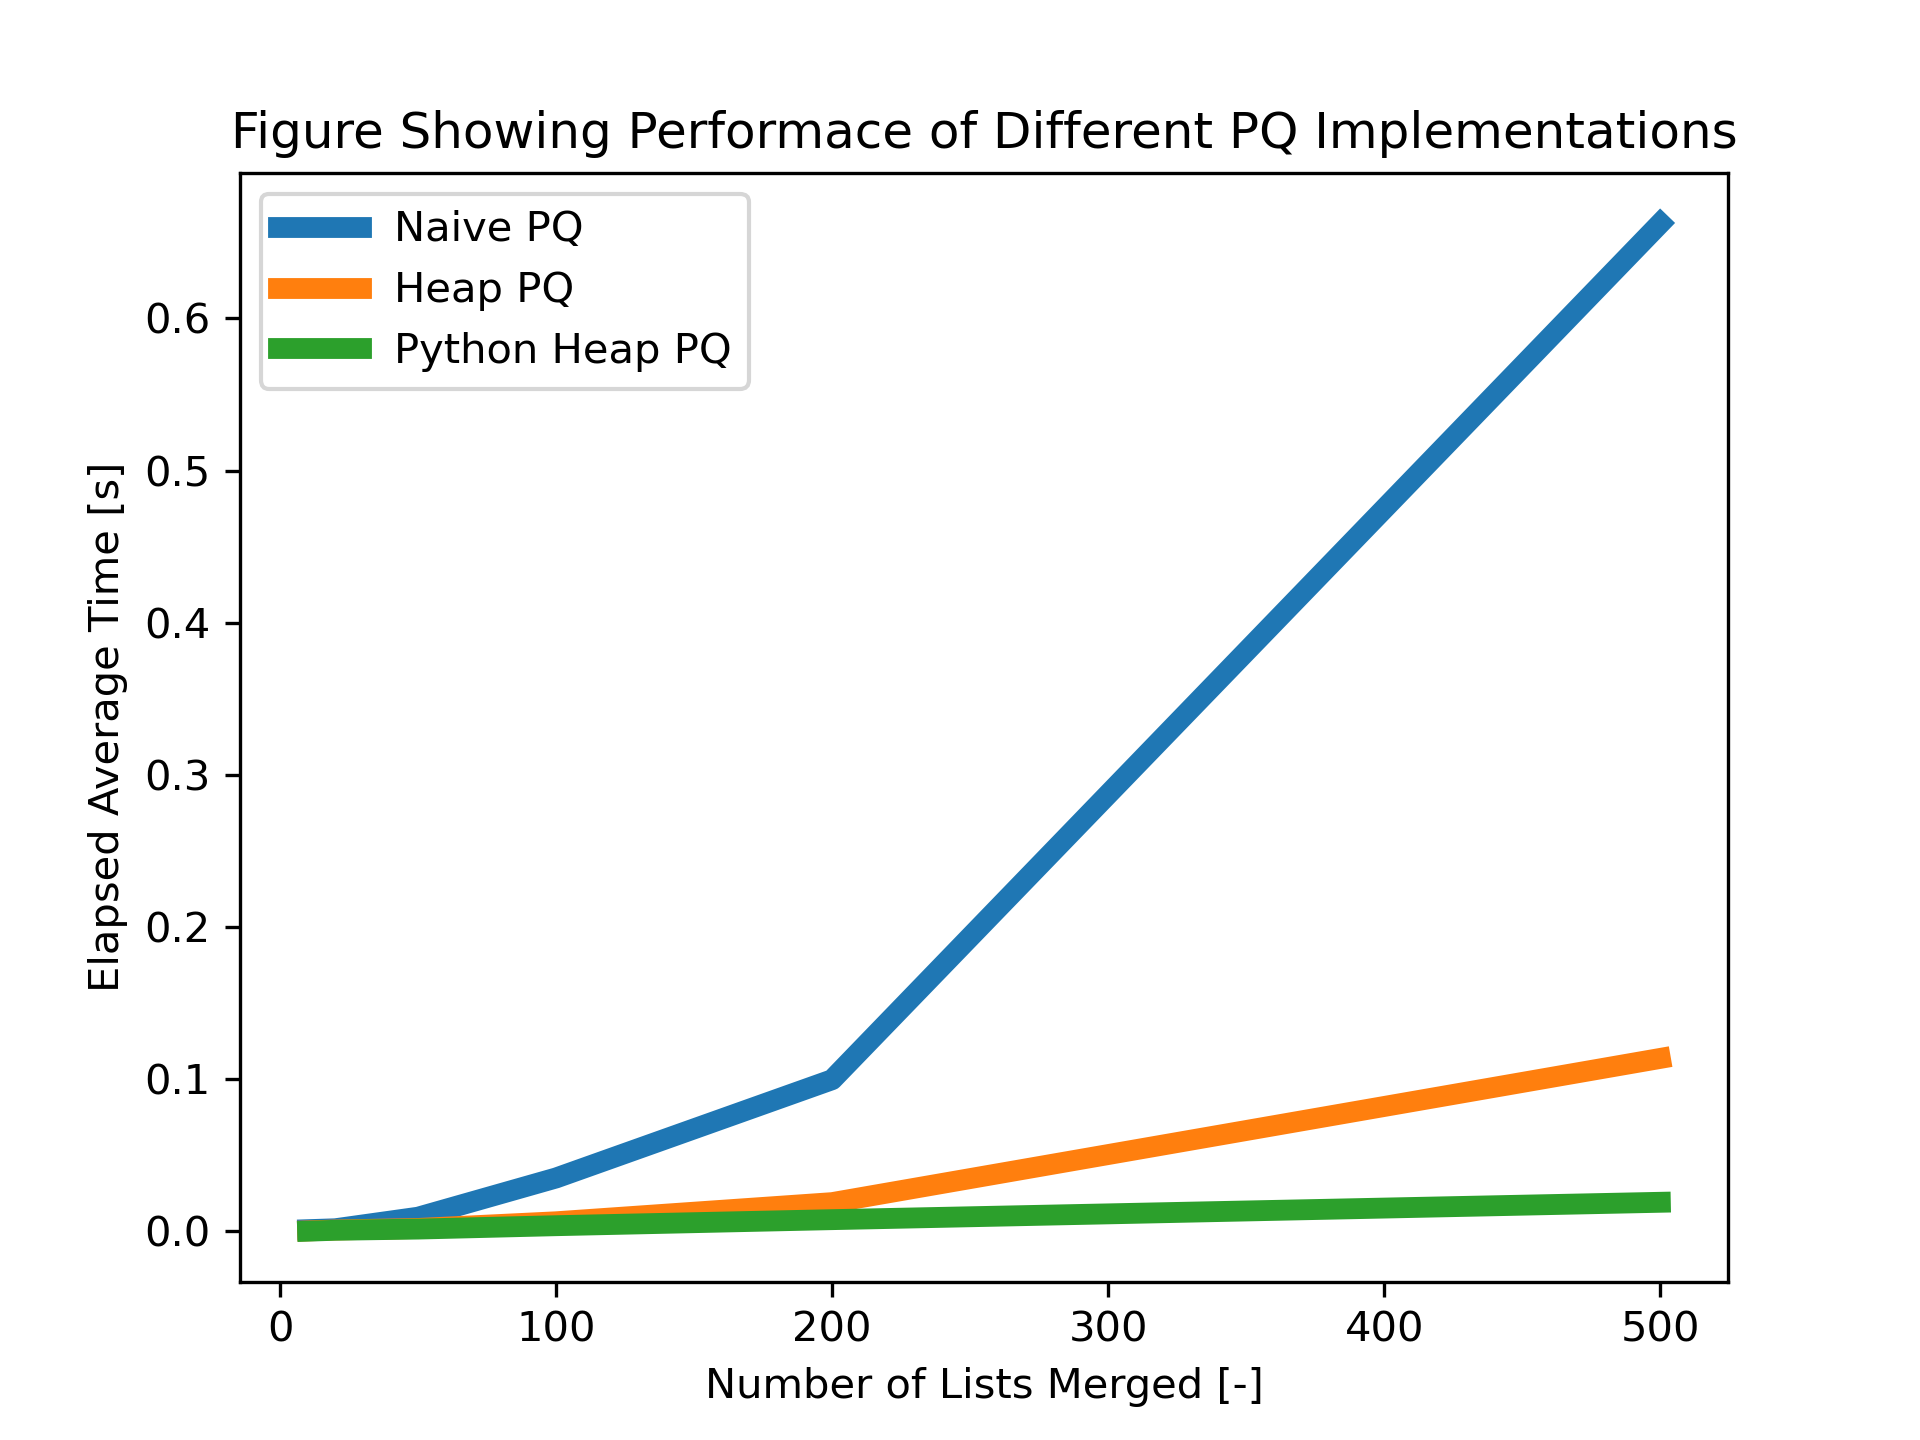
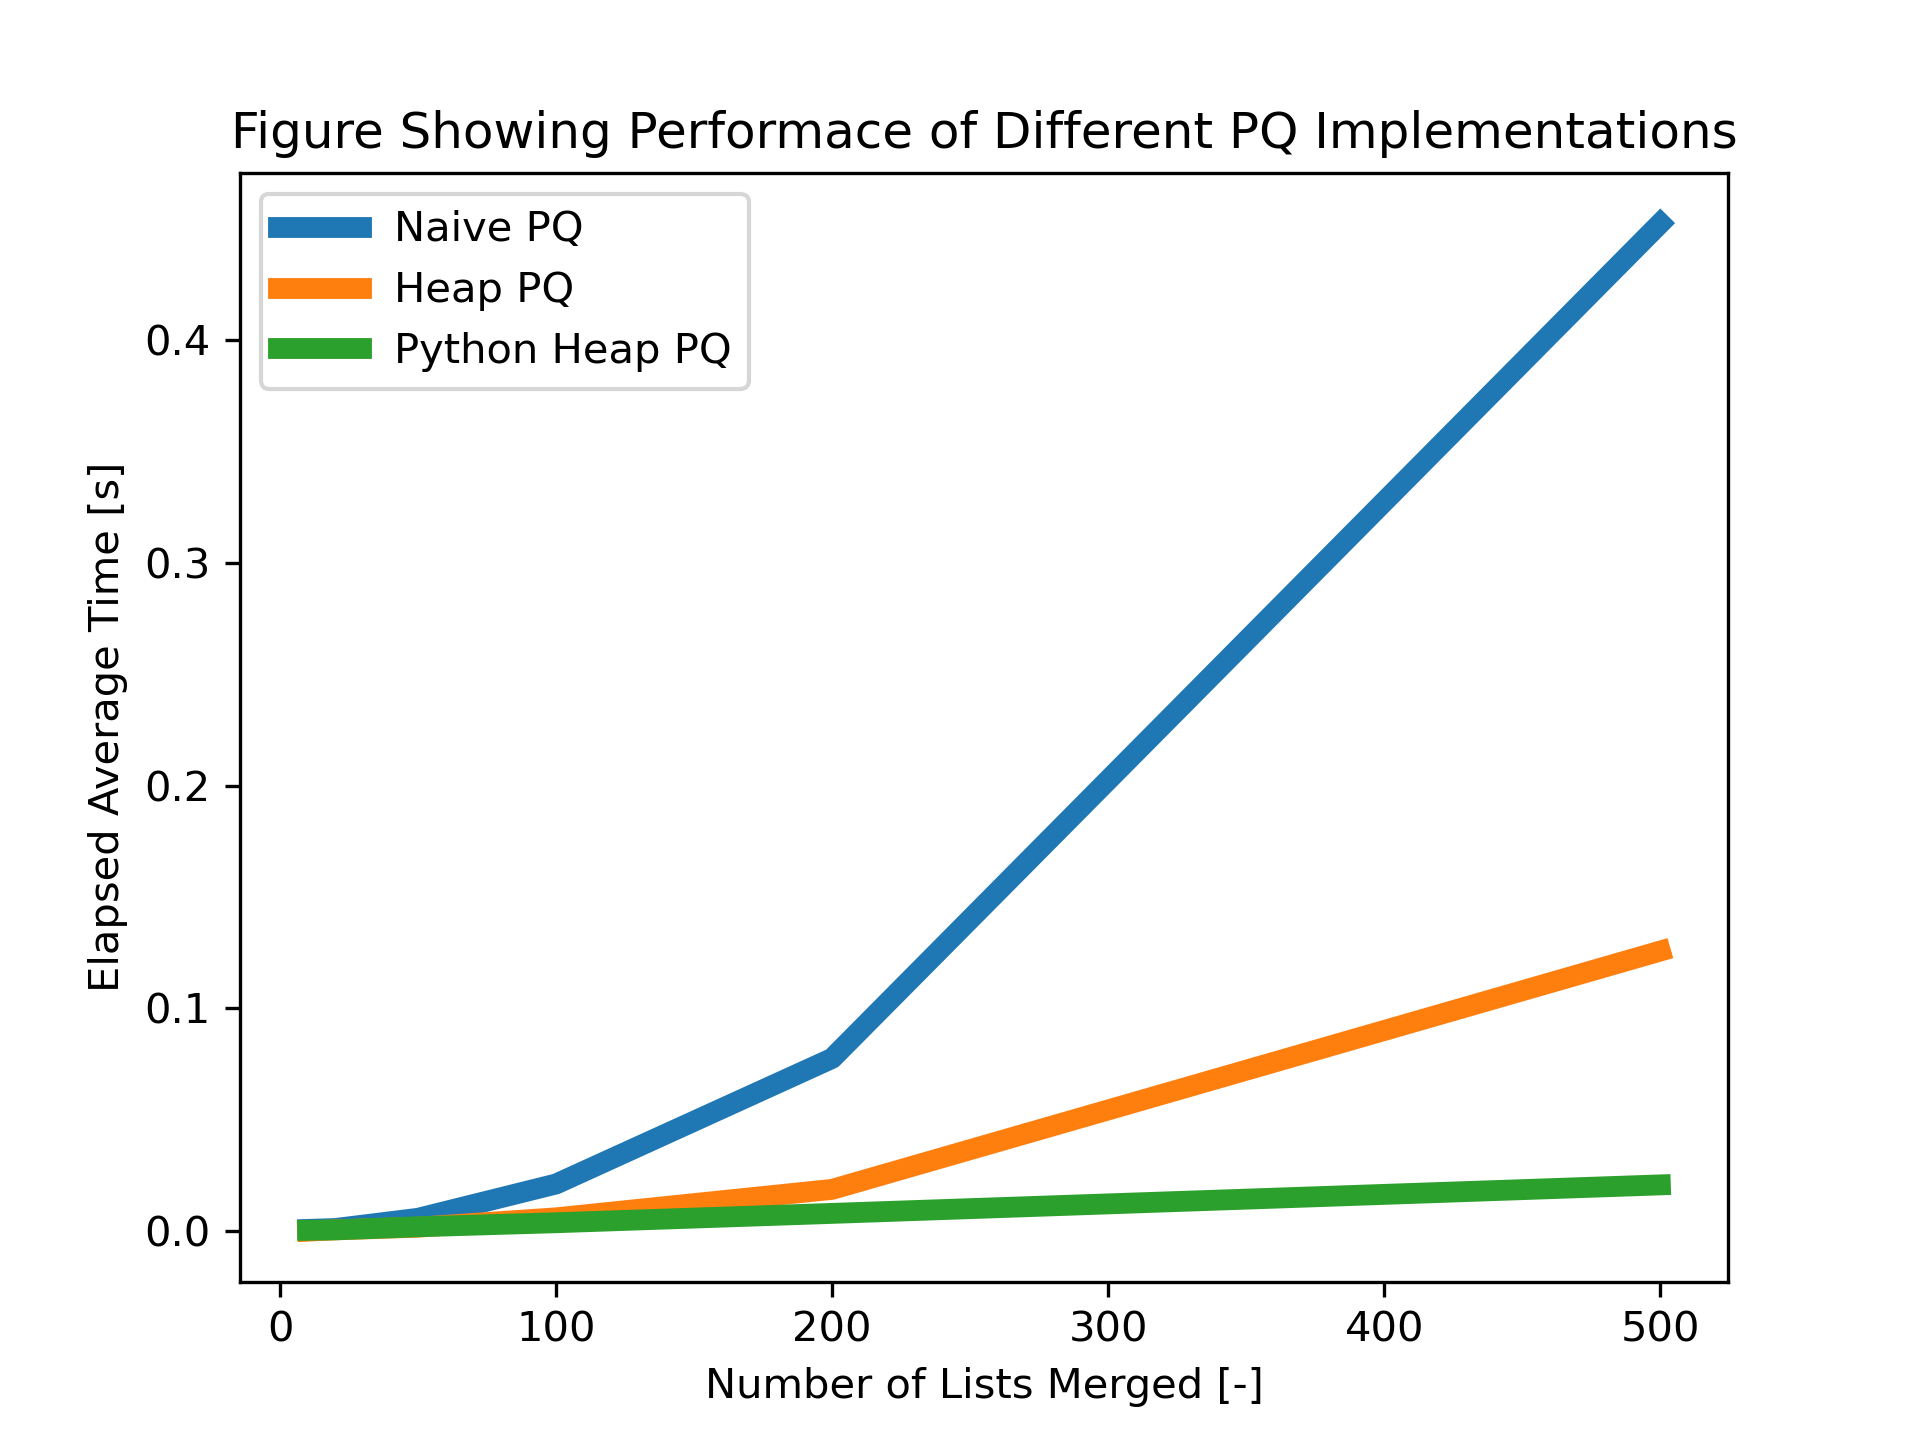
added new version of naive pq

diff --git a/homework/HW6/P3.py b/homework/HW6/P3.py
@@ -1,6 +1,7 @@
 from random import sample
 from time import time
 from P2 import MinHeap
+import numpy as np
 import heapq as h
 
 class PriorityQueue:
@@ -60,7 +61,7 @@ def timeit(ns=(10, 20, 50, 100, 200, 500), pqclass=PriorityQueue, n_average=5):
     return elapsed
 
 
-class NaivePriorityQueue(PriorityQueue):
+class NaivePriorityQueueSlow(PriorityQueue):
     def put(self,val):
         if len(self.elements) >= self.max_size:
             raise IndexError('Full priority queue')
@@ -89,6 +90,24 @@ class NaivePriorityQueue(PriorityQueue):
             if i<j:
                 j=i
         return j        
+
+class NaivePriorityQueue(PriorityQueue):
+    def put(self,val):
+        if len(self.elements) >= self.max_size:
+            raise IndexError('Full priority queue')
+        self.elements.append(val)
+
+    def get(self):
+        if len(self.elements)==0:
+            raise IndexError('Empty priority queue')
+        val=min(self.elements)
+        self.elements.remove(val)
+        return val
+
+    def peek(self):
+        if len(self.elements)==0:
+            raise IndexError('Empty priority queue')
+        return min(self.elements)
 
 class NaivePriorityQueueFast(PriorityQueue):
     def put(self,val):
